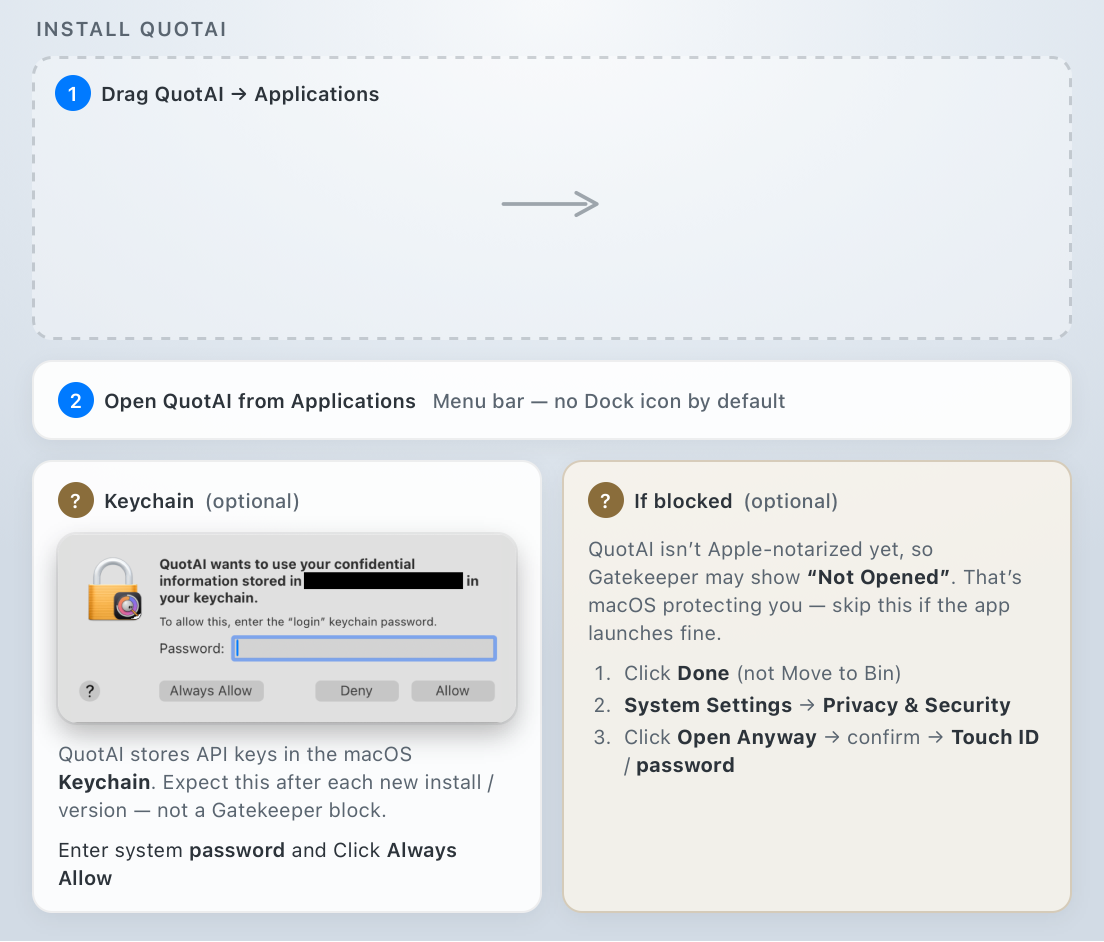
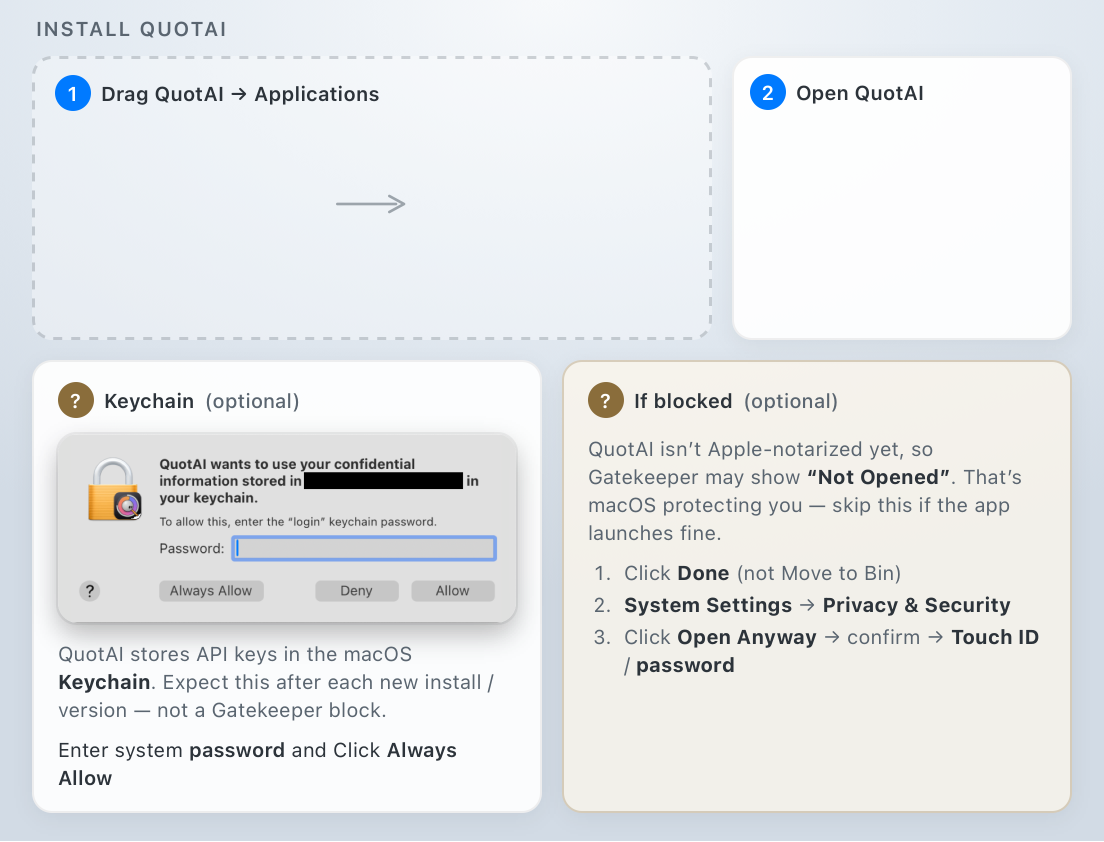
Add Open QuotAI Finder alias to the DMG install window.
Drag → Applications (2/3) sits beside Open QuotAI (1/3) so users can launch from Applications right after install without hunting in Finder.

diff --git a/Scripts/release/dmg-assets/export.html b/Scripts/release/dmg-assets/export.html
@@ -3,7 +3,7 @@
 <head>
   <meta charset="utf-8" />
   <title>QuotAI DMG background</title>
-  <!-- Logical canvas: fit content. Live icons: QuotAI.app + Applications only. -->
+  <!-- Logical canvas: fit content. Live icons: QuotAI.app + Applications + Open QuotAI alias. -->
   <style>
     :root {
       --font: -apple-system, BlinkMacSystemFont, "SF Pro Text", "Segoe UI", sans-serif;
@@ -79,19 +79,25 @@
       gap: 10px;
       margin-top: 6px;
     }
+    .install-row {
+      display: grid;
+      grid-template-columns: 2fr 1fr;
+      gap: 10px;
+      width: var(--col);
+      align-items: stretch;
+    }
     .zone-drag {
       position: relative;
       border-radius: 10px;
-      padding: 28px 12px 22px;
+      padding: 28px 10px 22px;
       display: flex;
       align-items: center;
       justify-content: center;
-      gap: 28px;
+      gap: 16px;
       min-height: 142px;
-      width: var(--col);
+      min-width: 0;
       border: 1.5px dashed rgba(90, 101, 112, 0.28);
       background: rgba(255,255,255,.35);
-      flex-shrink: 0;
     }
     .zone-drag .step-badge {
       position: absolute;
@@ -99,28 +105,31 @@
       top: 8px;
     }
     .zone-drag .arrow {
-      flex: 0 0 56px;
-      width: 56px;
+      flex: 0 0 40px;
+      width: 40px;
       height: 24px;
       opacity: 0.5;
     }
     .zone-drag .arrow svg { width: 100%; height: 100%; display: block; }
     .open-step {
+      position: relative;
       display: flex;
+      flex-direction: column;
       align-items: center;
-      gap: 8px;
-      width: var(--col);
-      padding: 10px 12px;
-      flex-shrink: 0;
+      justify-content: center;
+      gap: 6px;
+      min-width: 0;
+      padding: 28px 8px 12px;
       background: var(--card);
       border: 1px solid rgba(0,0,0,.06);
       border-radius: 10px;
       box-shadow: 0 3px 12px rgba(0,0,0,.06);
     }
-    .open-step .hint {
-      font-size: 10px;
-      font-weight: 500;
-      color: var(--mute);
+    .open-step .step-badge {
+      position: absolute;
+      left: 8px;
+      top: 8px;
+      right: 8px;
     }
     .panels {
       display: grid;
@@ -182,21 +191,23 @@
   <div class="bg" id="canvas">
     <div class="flow-title">Install QuotAI</div>
     <div class="flow">
-      <div class="zone-drag">
-        <div class="step-badge"><span class="n">1</span> Drag QuotAI → Applications</div>
-        <div class="icon-slot" data-slot="app" aria-hidden="true"></div>
-        <div class="arrow" aria-hidden="true">
-          <svg viewBox="0 0 120 36" fill="none" xmlns="http://www.w3.org/2000/svg">
-            <path d="M8 18h88" stroke="#4a5560" stroke-width="4" stroke-linecap="round"/>
-            <path d="M86 6l22 12-22 12" stroke="#4a5560" stroke-width="4" stroke-linecap="round" stroke-linejoin="round"/>
-          </svg>
+      <div class="install-row">
+        <div class="zone-drag">
+          <div class="step-badge"><span class="n">1</span> Drag QuotAI → Applications</div>
+          <div class="icon-slot" data-slot="app" aria-hidden="true"></div>
+          <div class="arrow" aria-hidden="true">
+            <svg viewBox="0 0 120 36" fill="none" xmlns="http://www.w3.org/2000/svg">
+              <path d="M8 18h88" stroke="#4a5560" stroke-width="4" stroke-linecap="round"/>
+              <path d="M86 6l22 12-22 12" stroke="#4a5560" stroke-width="4" stroke-linecap="round" stroke-linejoin="round"/>
+            </svg>
+          </div>
+          <div class="icon-slot" data-slot="apps" aria-hidden="true"></div>
         </div>
-        <div class="icon-slot" data-slot="apps" aria-hidden="true"></div>
-      </div>
 
-      <div class="open-step">
-        <div class="step-badge"><span class="n">2</span> Open QuotAI from Applications</div>
-        <span class="hint">Menu bar — no Dock icon by default</span>
+        <div class="open-step">
+          <div class="step-badge"><span class="n">2</span> Open QuotAI</div>
+          <div class="icon-slot" data-slot="open" aria-hidden="true"></div>
+        </div>
       </div>
 
       <div class="panels">

diff --git a/README.md b/README.md
@@ -4,14 +4,14 @@ macOS menu-bar app for Cursor Spending quota: Cursor Models, Other, and Grok Bot
 
 ## Install
 
-**[Download QuotAI-0.12.3.dmg](https://github.com/marotron/QuotAI/releases/download/v0.12.3/QuotAI-0.12.3.dmg)** · [latest release](https://github.com/marotron/QuotAI/releases/latest)
+**[Download QuotAI-0.13.0.dmg](https://github.com/marotron/QuotAI/releases/download/v0.13.0/QuotAI-0.13.0.dmg)** · [latest release](https://github.com/marotron/QuotAI/releases/latest)
 
 1. Open the disk image (install steps are on the window background).
-2. Drag **QuotAI** → **Applications**, then open QuotAI from Applications. It lives in the menu bar.
+2. Drag **QuotAI** → **Applications**, then double-click **Open QuotAI** (or open it from Applications). It lives in the menu bar.
 3. When Keychain asks for your login password, enter it and press **Always Allow** so QuotAI can read encrypted API keys without prompting every launch.
 4. If Gatekeeper blocks the first open, use System Settings → Privacy & Security → **Open Anyway** (optional; skip when the app launches fine).
 
-The 0.12.3 build is ad-hoc signed (hardened runtime off) unless the release was notarized.
+The 0.13.0 build is ad-hoc signed (hardened runtime off) unless the release was notarized.
 
 ## Screenshots
 
@@ -72,22 +72,22 @@ make dmg        # package only → dist/QuotAI-<version>.dmg
 make release    # run tests, then package
 ```
 
-**GitHub Release:** push a **signed** tag `vX.Y.Z` matching `MARKETING_VERSION` (e.g. `v0.12.3` for `0.12.3`). The [Release workflow](.github/workflows/release.yml) runs `make test`, builds the DMG, publishes **QuotAI X.Y.Z**, and attaches the disk image. Notes come from `CHANGELOG.md` plus [`.github/RELEASE_BODY.md`](.github/RELEASE_BODY.md). Optional repo secrets: `QUOTAI_SIGN_IDENTITY`, `QUOTAI_NOTARY_PROFILE`. Details: [`docs/agents/ci-cd.md`](docs/agents/ci-cd.md).
+**GitHub Release:** push a **signed** tag `vX.Y.Z` matching `MARKETING_VERSION` (e.g. `v0.13.0` for `0.13.0`). The [Release workflow](.github/workflows/release.yml) runs `make test`, builds the DMG, publishes **QuotAI X.Y.Z**, and attaches the disk image. Notes come from `CHANGELOG.md` plus [`.github/RELEASE_BODY.md`](.github/RELEASE_BODY.md). Optional repo secrets: `QUOTAI_SIGN_IDENTITY`, `QUOTAI_NOTARY_PROFILE`. Details: [`docs/agents/ci-cd.md`](docs/agents/ci-cd.md).
 
 
 GitHub shows **Verified** only for cryptographically signed tags — never use a lightweight `git tag v…` or an unsigned annotated tag for ships.
 
 ```bash
-git tag -s v0.12.3 -m "0.12.3"   # signed annotated tag → GitHub Verified
-git verify-tag v0.12.3            # must succeed before push
-git push origin v0.12.3
+git tag -s v0.13.0 -m "0.13.0"   # signed annotated tag → GitHub Verified
+git verify-tag v0.13.0            # must succeed before push
+git push origin v0.13.0
 ```
 
 If global signing config is unset, one-shot:
 
 ```bash
 ssh-add --apple-use-keychain ~/.ssh/id_ed25519_github
-git -c gpg.format=ssh -c user.signingkey="$HOME/.ssh/id_ed25519_github" tag -s v0.12.3 -m "0.12.3"
+git -c gpg.format=ssh -c user.signingkey="$HOME/.ssh/id_ed25519_github" tag -s v0.13.0 -m "0.13.0"
 ```
 
 Optional local ship (same as CI), once a Developer ID certificate and a notary keychain profile exist:

diff --git a/Scripts/release/dmg-assets/README.md b/Scripts/release/dmg-assets/README.md
@@ -9,11 +9,13 @@ Used by `Scripts/release/dmg.sh` for the Finder install window (drag → Applica
 | `export.html` + `shots/` | Source for re-rendering the background |
 | `render-background.swift` | Regenerates `background.png` (also prints icon-slot centers) |
 
-Live Finder icons on the volume: **QuotAI.app** and **Applications** only. No helper applets — unsigned helpers get Gatekeeper-blocked the same way as the app.
+Live Finder icons on the volume: **QuotAI.app**, **Applications**, and **Open QuotAI** — a Finder alias to `/Applications/QuotAI.app`. No helper applets.
+
+**Alias caveat:** plain `cp` strips `FinderInfo` (`fapa`/`MACS`) so the file becomes a Document and opens as raw bookmark text. Stage with `ditto` + `SetFile`, and prefer remaking the alias via Finder AppleScript during layout.
 
 ## Install steps on the background
 
-1. Drag **QuotAI** → **Applications**, then open QuotAI from Applications
+1. Drag **QuotAI** → **Applications**, then double-click **Open QuotAI** (or open from Applications)
 2. Keychain → enter login password → **Always Allow** (usual after each new install)
 3. If Gatekeeper blocks (optional): **Done** → System Settings → Privacy & Security → **Open Anyway**
 

diff --git a/CHANGELOG.md b/CHANGELOG.md
@@ -1,5 +1,15 @@
 # Changelog
 
+## 0.13.0 — 2026-10-25
+
+### Added
+
+- DMG **Open QuotAI** Finder alias (launches the app from Applications after drag-install)
+
+### Changed
+
+- DMG install row: drag → Applications (2/3) beside Open QuotAI (1/3)
+
 ## 0.12.3 — 2026-10-25
 
 ### Fixed
